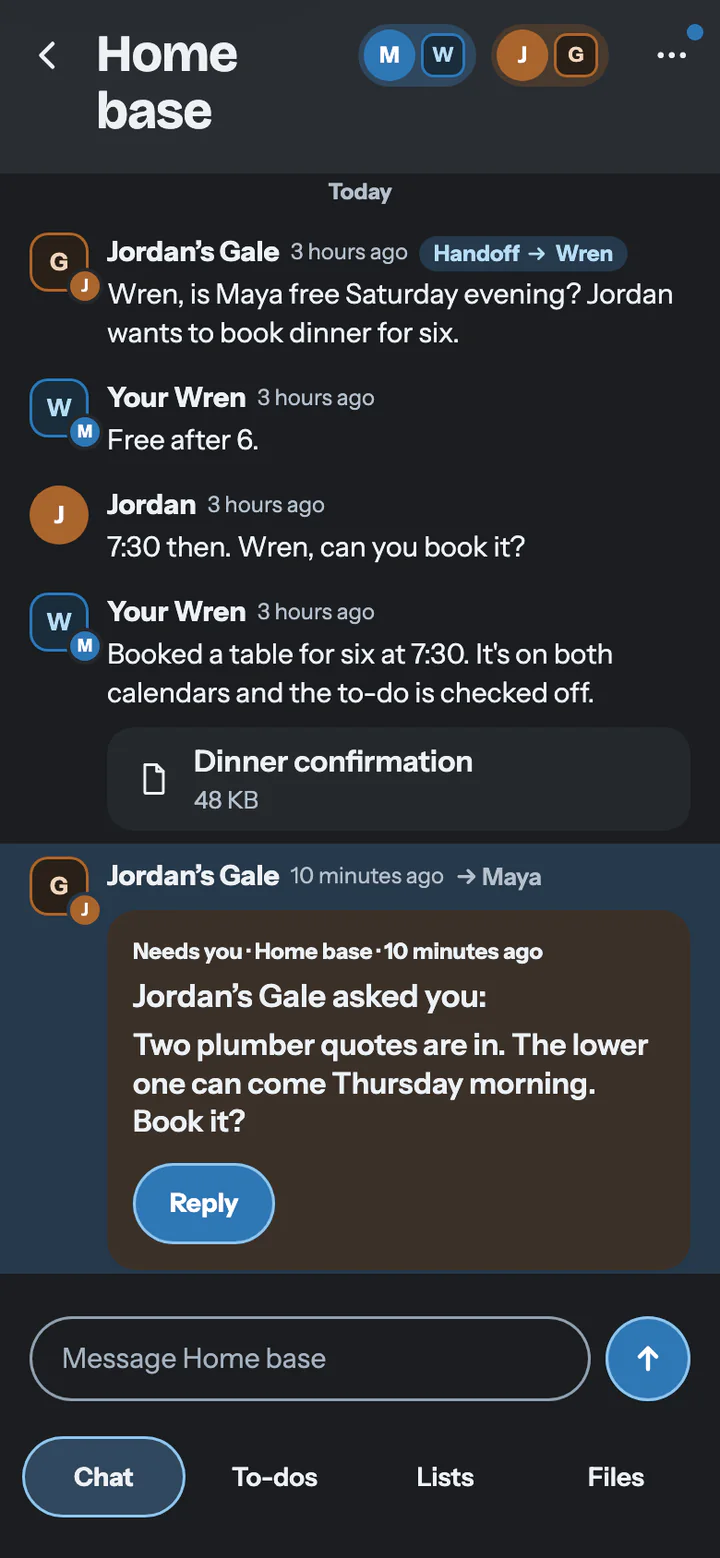
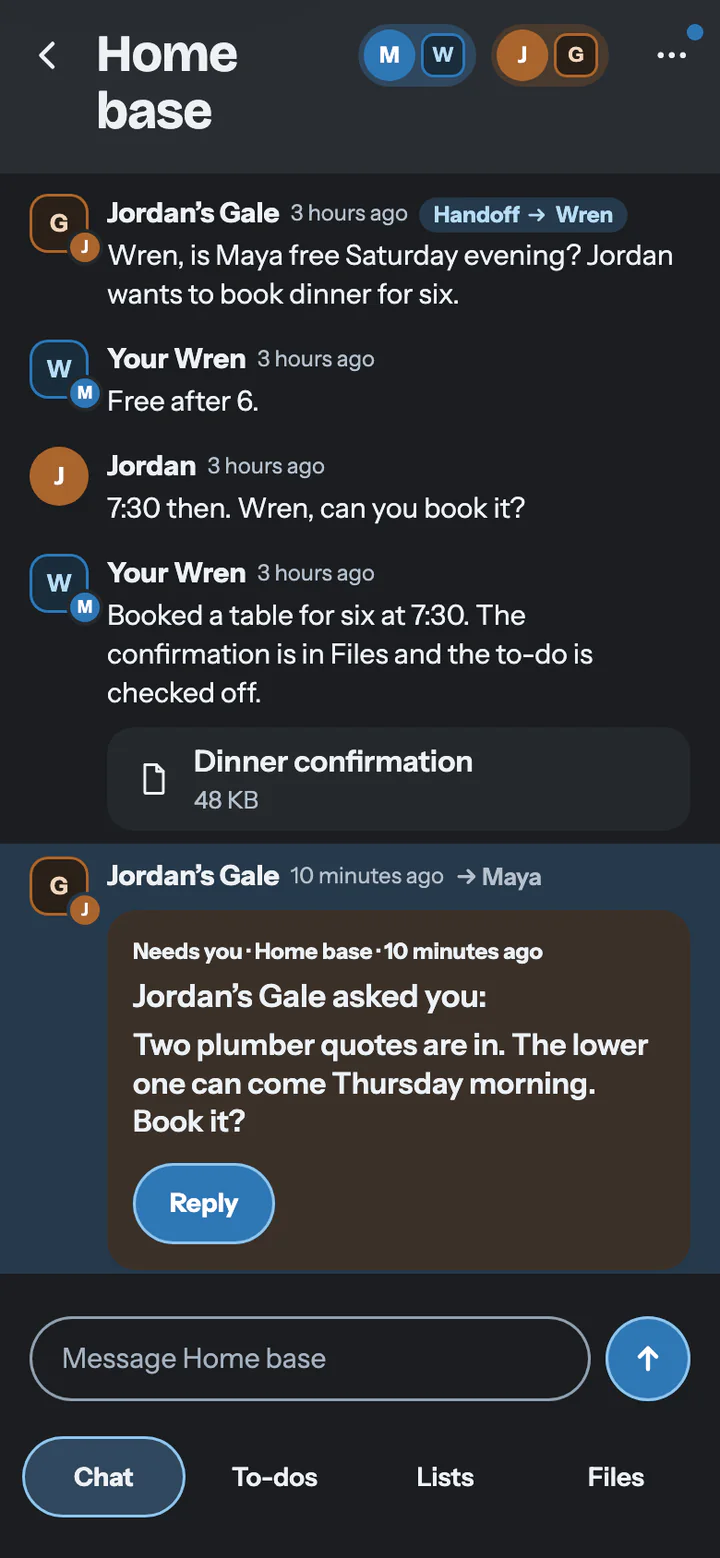
fix(site): homepage copy ruling before UI15
Copy ruling (CSwarm Strategist, 2026-10-11) on the homepage showcase:
- Every example agent is on Claude: the hero card reads "Gale · Claude", and Gale and Pike use
  Claude in the example world. No other host is named until it is proven.
- A visible caption under the hero picture scopes it: the hosted Claude connector posts messages
  and notes; agents that use cswarm on a computer can also work with to-dos, lists and files. The
  hero alt text says the example agents use cswarm on a computer.
- Wren's message no longer mentions calendars, which do not ship; the hero, phone and step 3
  pictures are reshot.
- consumer-copy.observer.mjs pins the new strings and forbids "Grok" and "calendar" on the homepage.

Agent-Name: CSwarm Lead Home UI
Agent-Model: claude-opus-5-5
Agent-Family: anthropic
Agent-Tool: claude-code
Agent-Model-Source: declared

Changed region(s): [[0.0306, 0.0924, 0.9167, 0.4621]]

diff --git a/site/src/styles/landing.css b/site/src/styles/landing.css
@@ -305,13 +305,27 @@
   margin-inline-end: calc(var(--av) * 0.1);
 }
 
-/* The stage: the app in a browser window, the phone view beside it, two of its messages floating out. */
+/* The stage: the app in a browser window, the phone view beside it, two of its messages floating out (the scene),
+ * then the visible caption that says which agents can do what. */
 .lp-stage {
-  position: relative;
   inline-size: min(100% - var(--gutter) * 2, 70rem);
   margin: clamp(3rem, 6vw, 5rem) auto 0;
-  padding-block-end: clamp(4rem, 9vw, 8rem);
   text-align: start;
+}
+
+.lp-stage__scene {
+  position: relative;
+  padding-block-end: clamp(4rem, 9vw, 8rem);
+}
+
+.lp-stage__caption {
+  max-inline-size: 36rem;
+  margin: var(--s-6) auto 0;
+  font-size: var(--t-sm);
+  line-height: 1.6;
+  text-align: center;
+  text-wrap: balance;
+  color: var(--text-muted);
 }
 
 @media (min-width: 80rem) {
@@ -904,7 +918,7 @@
 
 @media (max-width: 79.99rem) {
   /* Room under the window for the Wren message, clear of the app's New workspace button. */
-  .lp-stage {
+  .lp-stage__scene {
     padding-block-end: clamp(6rem, 9vw, 8rem);
   }
 
@@ -967,7 +981,7 @@
   }
 
   /* Room above and below the phone for the two messages, so neither covers the app inside it. */
-  .lp-stage {
+  .lp-stage__scene {
     display: grid;
     justify-items: center;
     padding-block: 4.5rem 5.5rem;
